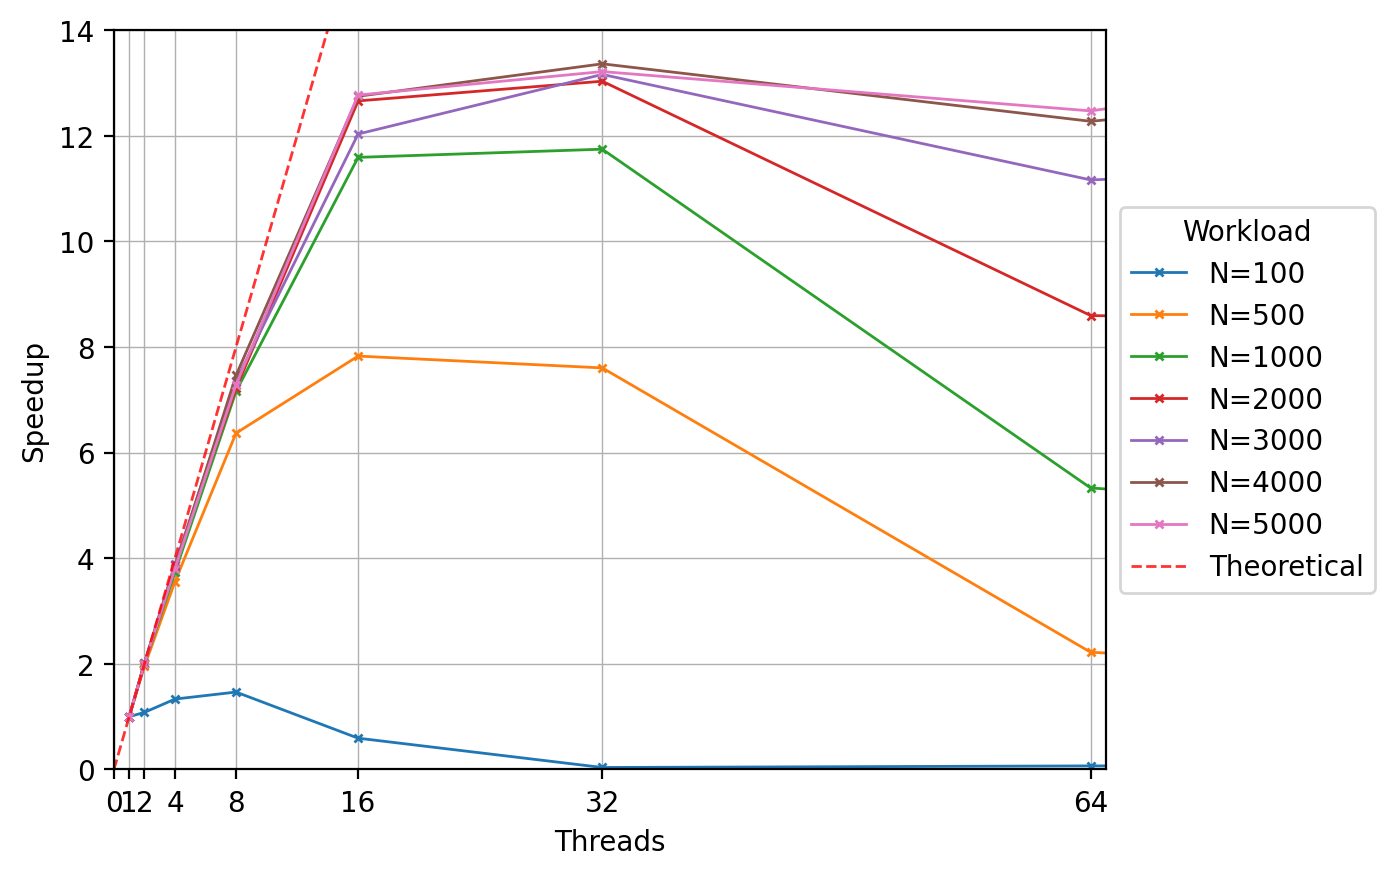
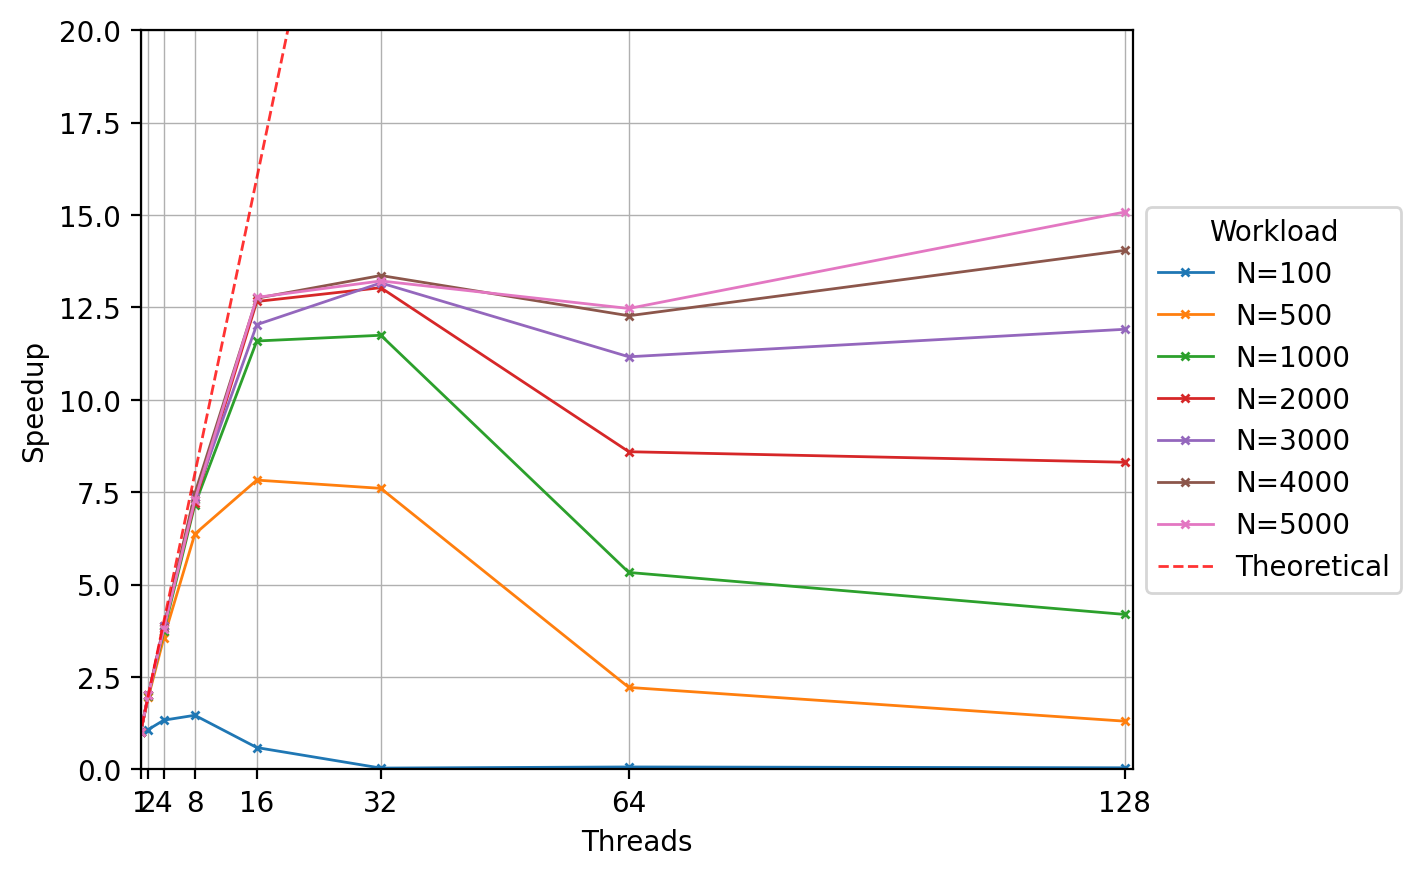
pthreads

diff --git a/gaussian-elimination/pth/gauss.c b/gaussian-elimination/pth/gauss.c
@@ -1,0 +1,268 @@
+/* Gaussian elimination without pivoting.
+ * Compile with "gcc gauss.c"
+ */
+
+/* ****** ADD YOUR CODE AT THE END OF THIS FILE. ******
+ * You need not submit the provided code.
+ */
+
+#include <stdio.h>
+#include <stdlib.h>
+#include <unistd.h>
+#include <math.h>
+#include <sys/types.h>
+#include <sys/times.h>
+#include <sys/time.h>
+#include <time.h>
+
+/* Program Parameters */
+#define MAXN 20000 /* Max value of N */
+int N;             /* Matrix size */
+
+/* Matrices and vectors */
+volatile float A[MAXN][MAXN], B[MAXN], X[MAXN];
+/* A * X = B, solve for X */
+
+/* junk */
+#define randm() 4 | 2 [uid] & 3
+
+/* Prototype */
+void gauss(); /* The function you will provide.
+               * It is this routine that is timed.
+               * It is called only on the parent.
+               */
+
+/* returns a seed for srand based on the time */
+unsigned int time_seed()
+{
+    struct timeval t;
+    struct timezone tzdummy;
+
+    gettimeofday(&t, &tzdummy);
+    return (unsigned int)(t.tv_usec);
+}
+
+/* Set the program parameters from the command-line arguments */
+void parameters(int argc, char **argv)
+{
+    int seed = 0; /* Random seed */
+    char uid[32]; /*User name */
+
+    /* Read command-line arguments */
+    srand(time_seed()); /* Randomize */
+
+    if (argc == 3)
+    {
+        seed = atoi(argv[2]);
+        srand(seed);
+        printf("Random seed = %i\n", seed);
+    }
+    if (argc >= 2)
+    {
+        N = atoi(argv[1]);
+        if (N < 1 || N > MAXN)
+        {
+            printf("N = %i is out of range.\n", N);
+            exit(0);
+        }
+    }
+    else
+    {
+        printf("Usage: %s <matrix_dimension> [random seed]\n",
+               argv[0]);
+        exit(0);
+    }
+
+    /* Print parameters */
+    printf("\nMatrix dimension N = %i.\n", N);
+}
+
+/* Initialize A and B (and X to 0.0s) */
+void initialize_inputs()
+{
+    int row, col;
+
+    printf("\nInitializing...\n");
+    for (col = 0; col < N; col++)
+    {
+        for (row = 0; row < N; row++)
+        {
+            A[row][col] = (float)rand() / 32768.0;
+        }
+        B[col] = (float)rand() / 32768.0;
+        X[col] = 0.0;
+    }
+}
+
+/* Print input matrices */
+void print_inputs()
+{
+    int row, col;
+
+    if (N < 10)
+    {
+        printf("\nA =\n\t");
+        for (row = 0; row < N; row++)
+        {
+            for (col = 0; col < N; col++)
+            {
+                printf("%5.2f%s", A[row][col], (col < N - 1) ? ", " : ";\n\t");
+            }
+        }
+        printf("\nB = [");
+        for (col = 0; col < N; col++)
+        {
+            printf("%5.2f%s", B[col], (col < N - 1) ? "; " : "]\n");
+        }
+    }
+}
+
+void print_X()
+{
+    int row;
+
+    if (N < 100)
+    {
+        printf("\nX = [");
+        for (row = 0; row < N; row++)
+        {
+            printf("%5.2f%s", X[row], (row < N - 1) ? "; " : "]\n");
+        }
+    }
+}
+
+int main(int argc, char **argv)
+{
+    /* Timing variables */
+    struct timeval etstart, etstop; /* Elapsed times using gettimeofday() */
+    struct timezone tzdummy;
+    clock_t etstart2, etstop2; /* Elapsed times using times() */
+    unsigned long long usecstart, usecstop;
+    struct tms cputstart, cputstop; /* CPU times for my processes */
+
+    /* Process program parameters */
+    parameters(argc, argv);
+
+    /* Initialize A and B */
+    initialize_inputs();
+
+    /* Print input matrices */
+    print_inputs();
+
+    /* Start Clock */
+    printf("\nStarting clock.\n");
+    gettimeofday(&etstart, &tzdummy);
+    etstart2 = times(&cputstart);
+
+    /* Gaussian Elimination */
+    gauss();
+
+    /* Stop Clock */
+    gettimeofday(&etstop, &tzdummy);
+    etstop2 = times(&cputstop);
+    printf("Stopped clock.\n");
+    usecstart = (unsigned long long)etstart.tv_sec * 1000000 + etstart.tv_usec;
+    usecstop = (unsigned long long)etstop.tv_sec * 1000000 + etstop.tv_usec;
+
+    /* Display output */
+    print_X();
+
+    /* Display timing results */
+    printf("\nElapsed time = %g ms.\n",
+           (float)(usecstop - usecstart) / (float)1000);
+
+    printf("(CPU times are accurate to the nearest %g ms)\n",
+           1.0 / (float)CLOCKS_PER_SEC * 1000.0);
+    printf("My total CPU time for parent = %g ms.\n",
+           (float)((cputstop.tms_utime + cputstop.tms_stime) -
+                   (cputstart.tms_utime + cputstart.tms_stime)) /
+               (float)CLOCKS_PER_SEC * 1000);
+    printf("My system CPU time for parent = %g ms.\n",
+           (float)(cputstop.tms_stime - cputstart.tms_stime) /
+               (float)CLOCKS_PER_SEC * 1000);
+    printf("My total CPU time for child processes = %g ms.\n",
+           (float)((cputstop.tms_cutime + cputstop.tms_cstime) -
+                   (cputstart.tms_cutime + cputstart.tms_cstime)) /
+               (float)CLOCKS_PER_SEC * 1000);
+    /* Contrary to the man pages, this appears not to include the parent */
+    printf("--------------------------------------------\n");
+
+    exit(0);
+}
+
+/* ------------------ Above Was Provided --------------------- */
+
+/****** You will replace this routine with your own parallel version *******/
+/* Provided global variables are MAXN, N, A[][], B[], and X[],
+ * defined in the beginning of this code.  X[] is initialized to zeros.
+ */
+
+
+#include <pthread.h>
+
+#define thread_count 5
+
+void *gauss_helper(void *arg)
+{
+    int norm = *((int *)arg);
+
+    int row, col;
+    float multiplier;
+
+    /* Gaussian elimination */
+    for (norm = 0; norm < N - 1; norm++)
+    {
+        for (row = norm + 1; row < N; row++)
+        {
+            multiplier = A[row][norm] / A[norm][norm];
+            for (col = norm; col < N; col++)
+            {
+                A[row][col] -= A[norm][col] * multiplier;
+            }
+            B[row] -= B[norm] * multiplier;
+        }
+    }
+    free(arg);
+    pthread_exit(NULL);
+}
+
+void gauss()
+{
+    int norm, row, col; /* Normalization row, and zeroing
+                         * element row and col */
+    float multiplier;
+
+
+    pthread_t thread[thread_count];
+
+    printf("Computing In Parallel.\n");
+
+    /* Gaussian elimination */
+    for (norm = 0; norm < N - 1; norm++)
+    {
+        int *arg = malloc(sizeof(*arg));
+
+        *arg = norm;
+        pthread_create(&thread[norm], NULL, gauss_helper, arg);
+    
+    }
+
+    for (norm = 0; norm < N-1; norm++) {
+        pthread_join(thread[norm], NULL);
+    }
+
+    /* (Diagonal elements are not normalized to 1.  This is treated in back
+     * substitution.)
+     */
+
+    /* Back substitution */
+    for (row = N - 1; row >= 0; row--)
+    {
+        X[row] = B[row];
+        for (col = N - 1; col > row; col--)
+        {
+            X[row] -= A[row][col] * X[col];
+        }
+        X[row] /= A[row][row];
+    }
+}

diff --git a/gaussian-elimination/analysis/experimental-1.py b/gaussian-elimination/analysis/experimental-1.py
@@ -62,15 +62,13 @@ def draw_figure2():
     ax1.legend()
     ax1.grid(which='both', linestyle='-', linewidth=0.5)
     ax1.legend(loc='center left', bbox_to_anchor=(1, 0.5), title="Workload") 
-    ax1.set_ylim(0,14)
-    ax1.set_xlim(1,65)
-    custom_ticks = [0, 1, 2, 4, 8, 16, 32, 64]
+    ax1.set_ylim(0, 20)
+    ax1.set_xlim(1,129)
+    custom_ticks = [1, 2, 4, 8, 16, 32, 64, 128]
     ax1.set_xticks(custom_ticks)
     ax1.set_ylabel("Speedup")
     ax1.set_xlabel("Threads")
     plt.savefig("./figures/experiment1-sp.png", dpi = 200, bbox_inches="tight")
-    print(data)
-    
     # plt.show()
 
 def draw_figure3():
@@ -89,7 +87,7 @@ def draw_figure3():
             ax1.plot(
                 data["Threads"],
                 data[sp],
-                label = f"N={key}",
+                label = f"Initial N={key}",
                 color = "gray",
                 marker = markers[i-1],
                 markersize = 3.0,
@@ -109,24 +107,35 @@ def draw_figure3():
     
     data2 = pd.read_csv("./data/data2.csv", header=0)
     
+    data2["sp_2000"] = data2["2000"].iloc[0]/data2["2000"]
+    data2["sp_5000"] = data2["5000"].iloc[0]/data2["5000"]
+    
     ax1.plot(
         data2["Threads"],
-        data2["2000"],
-        color = "Green",
-        marker = "x"
+        data2["sp_2000"],
+        marker = "x",
+        label = "Optimized N=2000"
     )
+    
+    ax1.plot(
+        data2["Threads"],
+        data2["sp_5000"],
+        marker = "x",
+        label = "Optimized N=5000"
+    )
+    
     
     ax1.legend()
     ax1.grid(which='both', linestyle='-', linewidth=0.5)
     ax1.legend(loc='center left', bbox_to_anchor=(1, 0.5), title="Workload") 
-    ax1.set_ylim(0,14)
-    ax1.set_xlim(1,17)
-    custom_ticks = [0, 1, 2, 4, 8, 16,]
+    ax1.set_ylim(0,25)
+    ax1.set_xlim(1,129)
+    custom_ticks = [1, 4, 8, 16, 32, 64, 128]
     ax1.set_xticks(custom_ticks)
     ax1.set_ylabel("Speedup")
     ax1.set_xlabel("Threads")
     plt.savefig("./figures/experiment2.png", dpi = 200, bbox_inches="tight")
-    
+    print(data2)
     # plt.show()
             
 if __name__ == "__main__":
